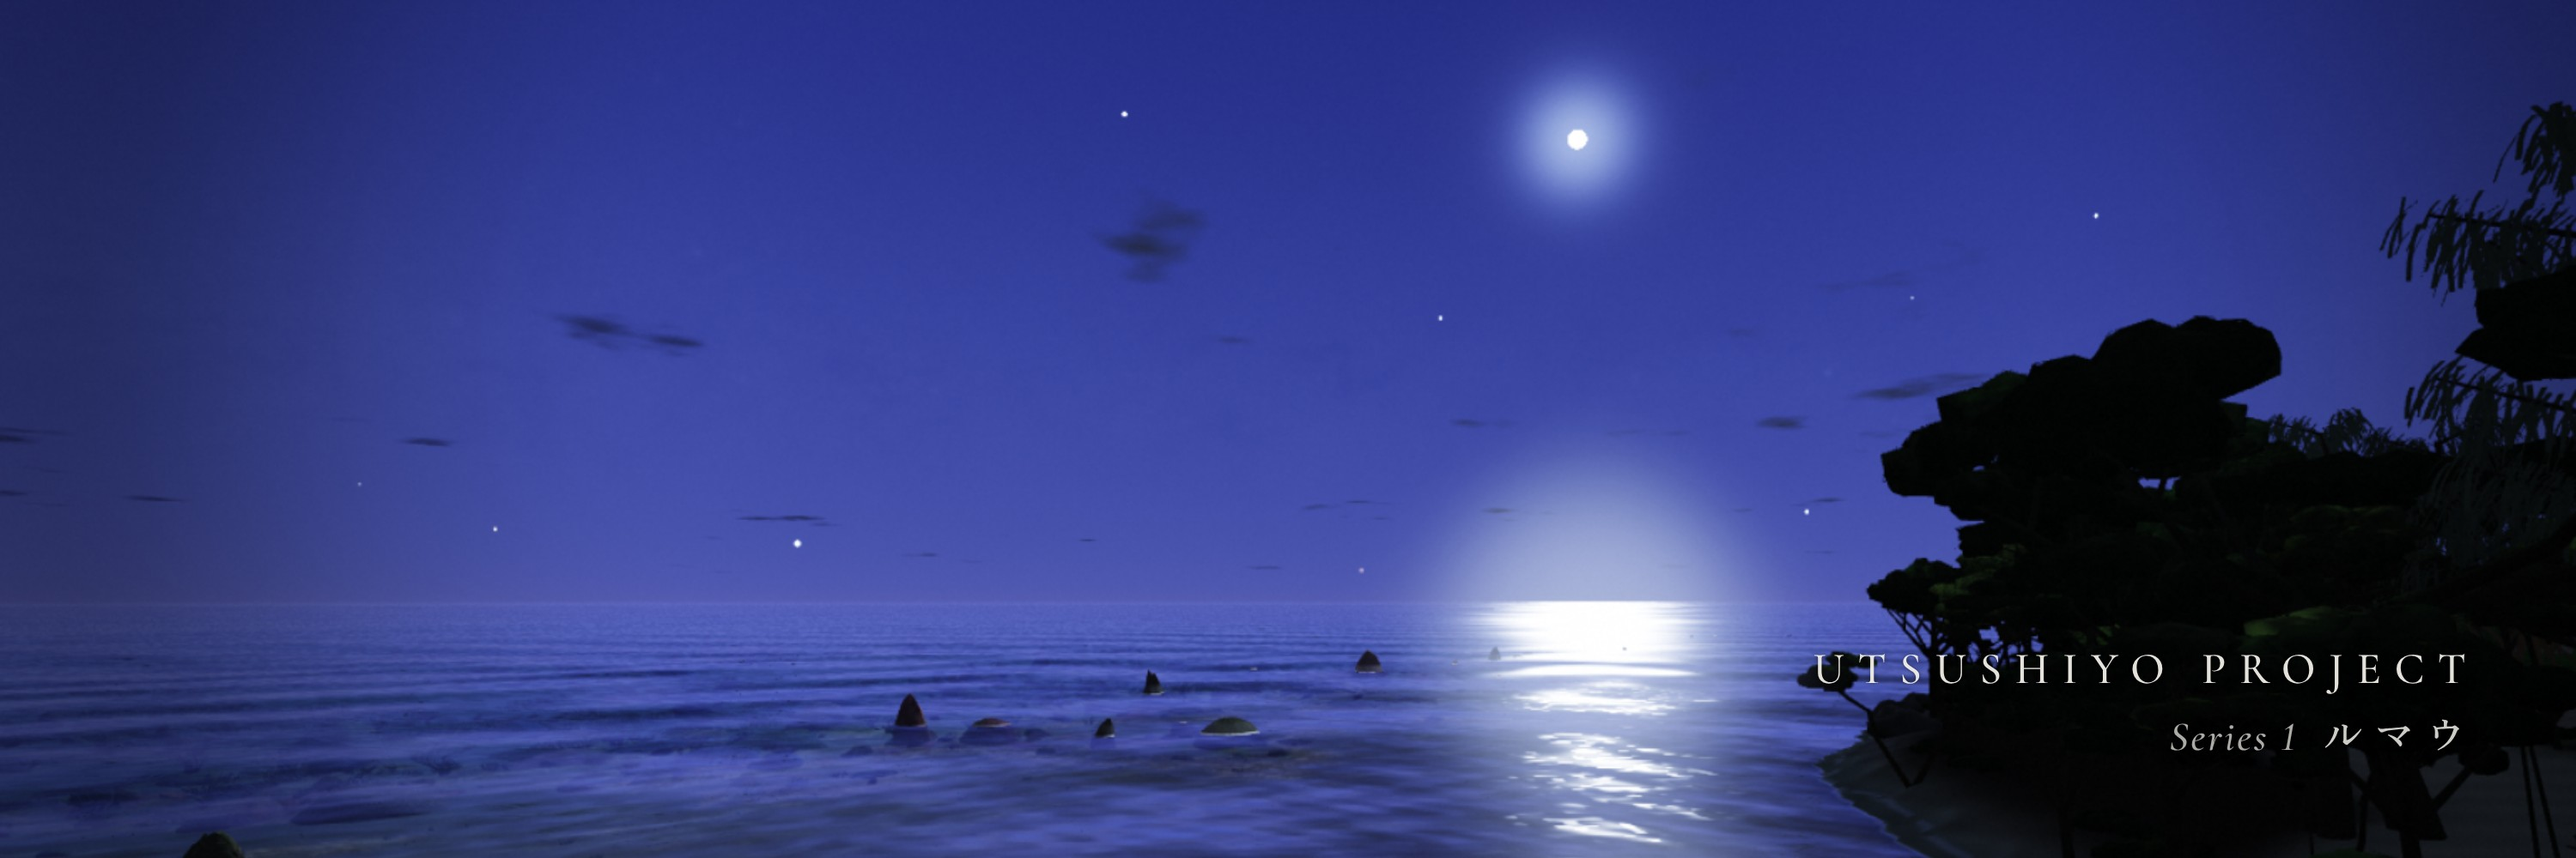
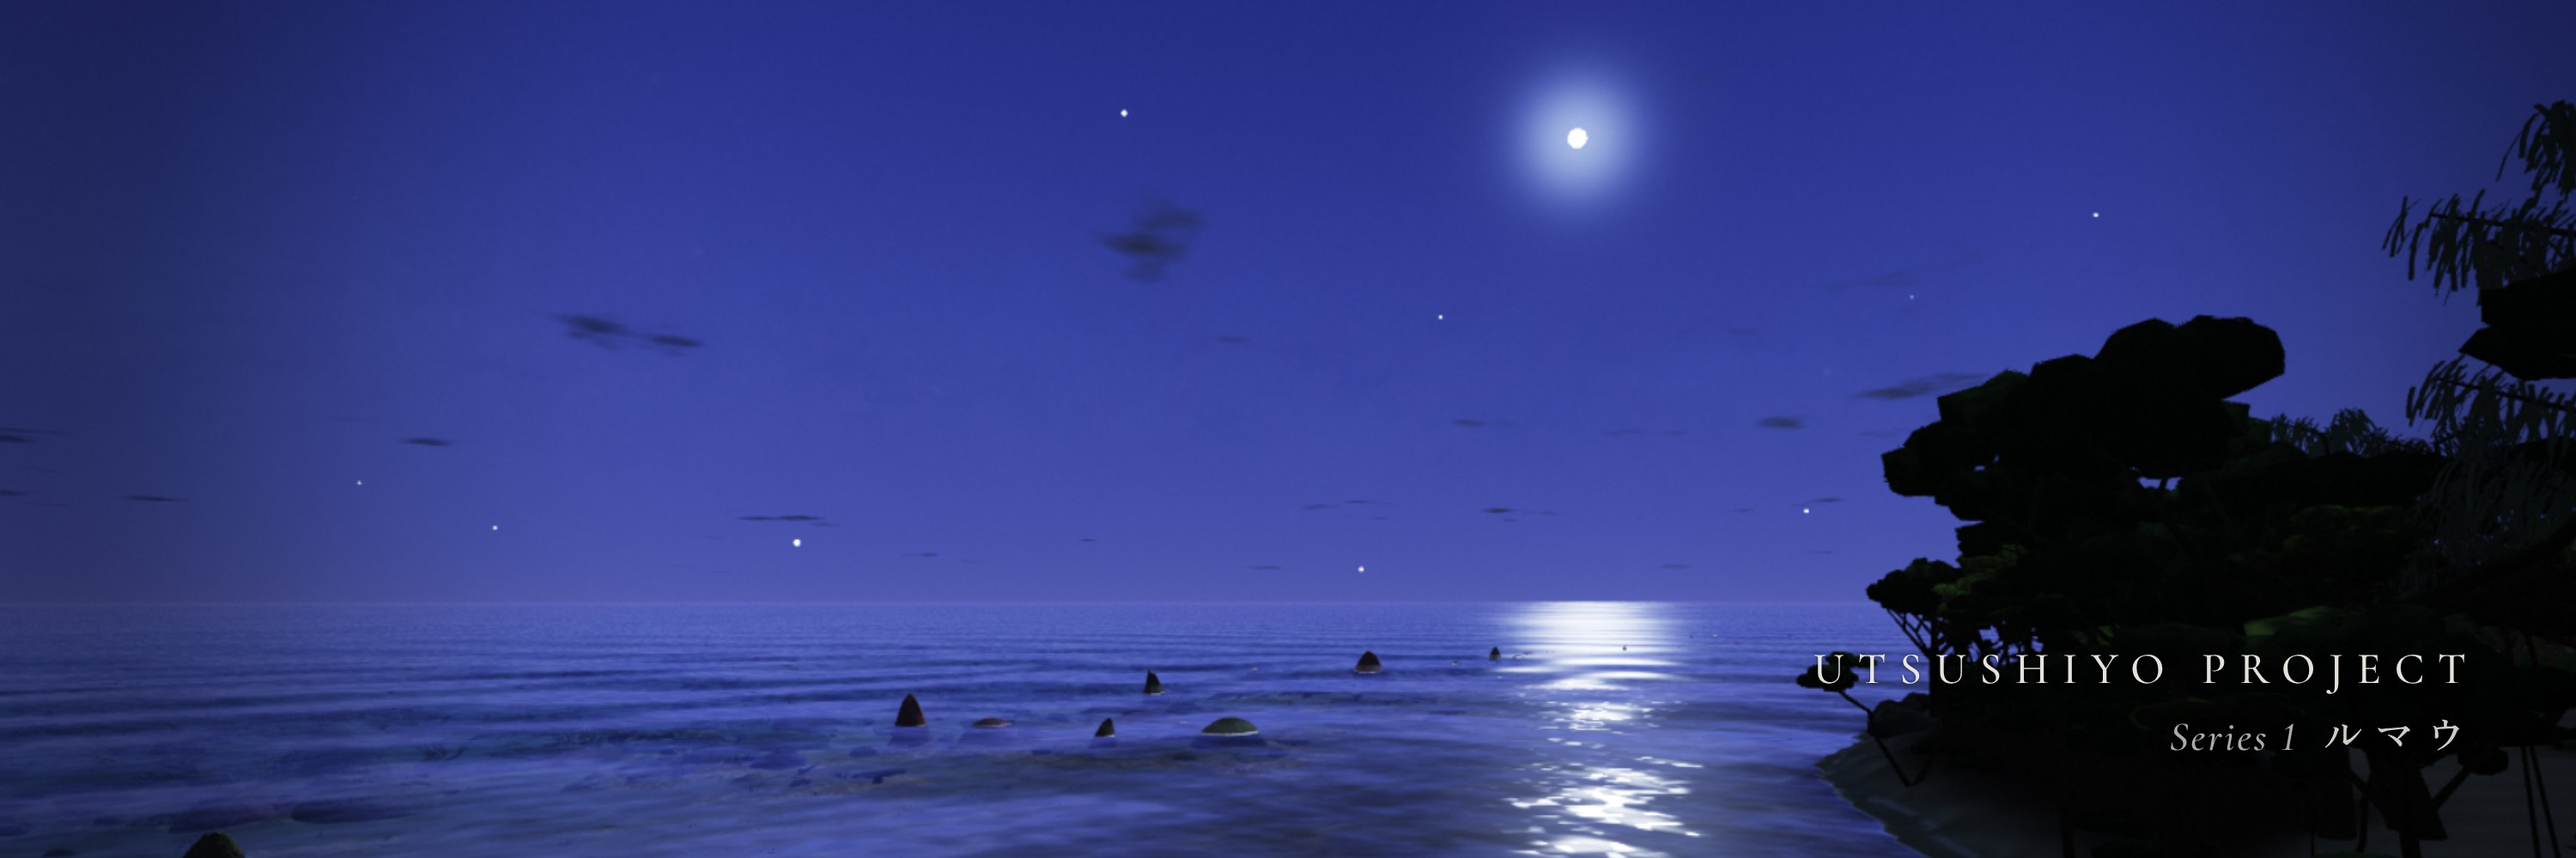
docs: the X header, the first post's picture and the night mocks retaken on the build with the glare fixed (#126)
Claude-Session: https://claude.ai/code/session_012zUNEbaxEnTJpHj4maCj37

diff --git a/docs/proposals/viewer-design-2026-10-16/sns/README.md b/docs/proposals/viewer-design-2026-10-16/sns/README.md
@@ -12,7 +12,7 @@ X のアカウント（`@utsushiyo_pj`）ができたので、プロフィール
 | 最初の投稿の画像 | `post-moon.jpg` | 1920×1080 | ヘッダーと同じ場面の 16:9（文字なし） |
 
 - 字の形は `src/robots/islandlang.ts` の `glyphs()` と同じ（`icon.html`）。
-- ヘッダーの画は、いまの main のビルドを**ソフトウェア描画**で撮った仮の画（アプリの表示は消してある。潮見の定点 S1 の位置から月の方を向いた、`../TIDE_SCENES.md` の S5b の場面）。本物の GPU で同じ場面を撮れたら差し替える（リハーサルの日の明け方は満月ではないので、配信の録画からは撮れない。ページの時計を 12/25 6:30 にずらす LAB の撮り方で、家の PC から撮る）。作り直すときは `header.html?bg=画像&y=切り出す位置`。
+- ヘッダーの画は、main 5f5391f（自然班の照り返しの直し PR #126 のあと。水平線の上の白いにじみがない）のビルドを**ソフトウェア描画**で撮った仮の画（アプリの表示は消してある。潮見の定点 S1 の位置から月の方を向いた、`../TIDE_SCENES.md` の S5b の場面）。本物の GPU で同じ場面を撮れたら差し替える（リハーサルの日の明け方は満月ではないので、配信の録画からは撮れない。ページの時計を 12/25 6:30 にずらす LAB の撮り方で、家の PC から撮る）。作り直すときは `header.html?bg=画像&y=切り出す位置`。
 - 48px（タイムラインの大きさ）での見え方は `icon-preview.png`。
 
 ## 文字
